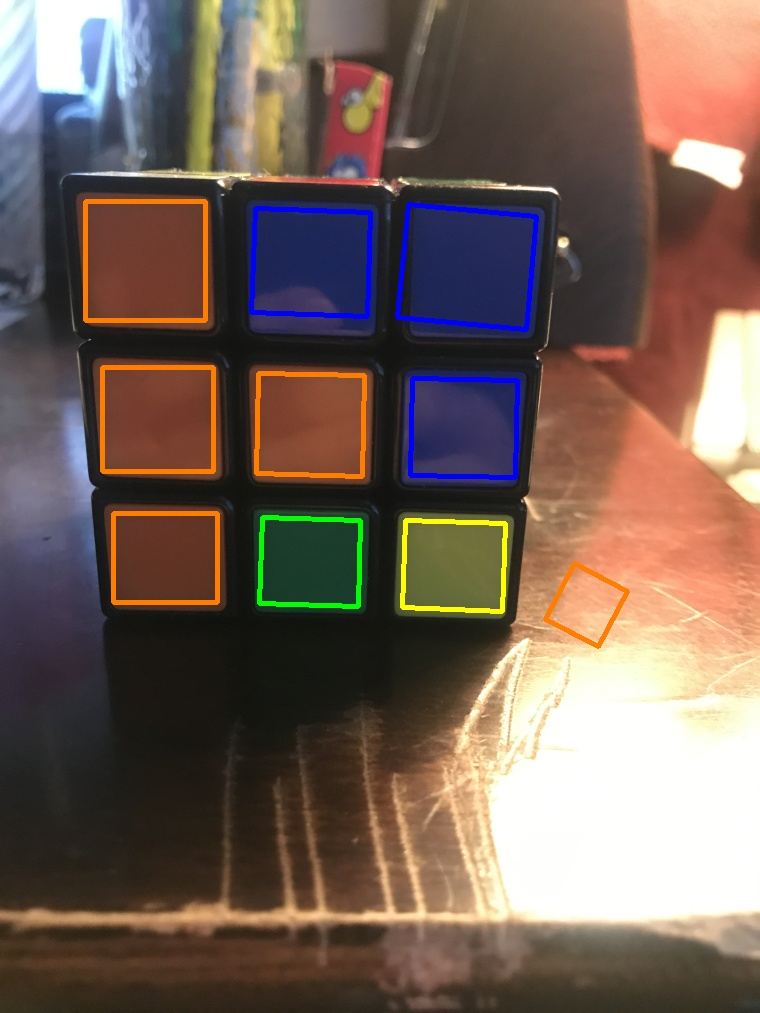
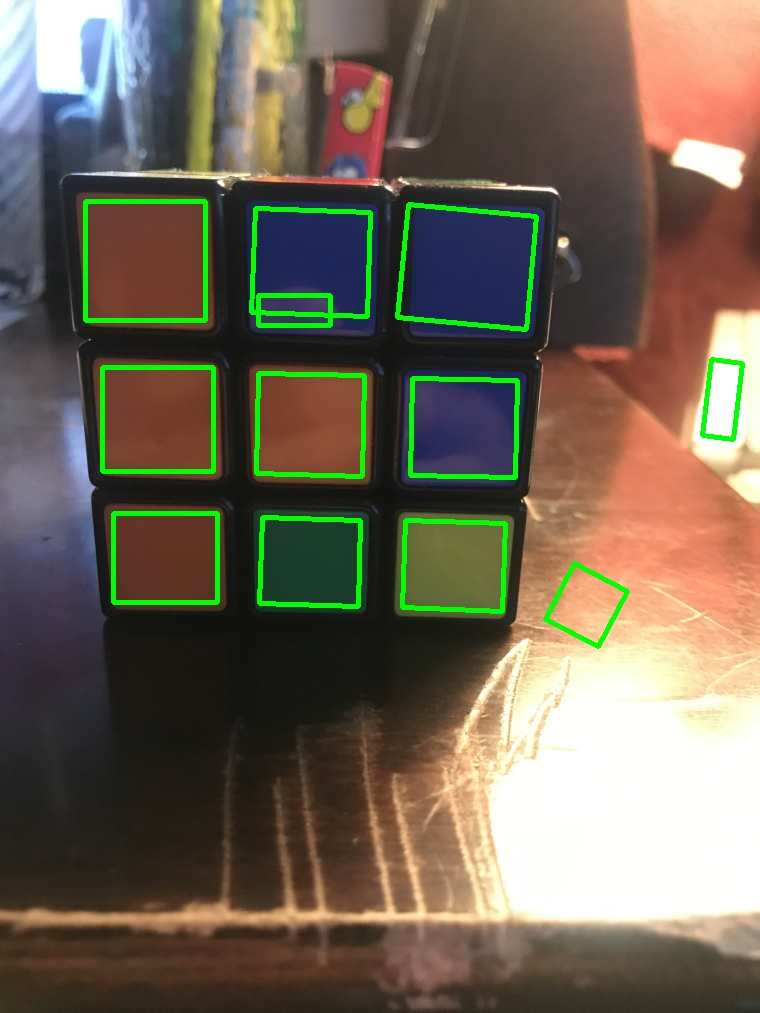
idek

diff --git a/preprocess_images_to_train.py b/preprocess_images_to_train.py
@@ -7,10 +7,10 @@ import keras
 
 EXECUTION_DIRECTORY = os.getcwd()
 
-IMAGE_DIRECTORY_NAME = "simple_rubiks"
+IMAGE_DIRECTORY_NAME = "rubiks very simple"
 IMAGE_DIRECTORY = os.path.join(EXECUTION_DIRECTORY,IMAGE_DIRECTORY_NAME)
 
-NUM_IMAGES = 5
+NUM_IMAGES = 6
 
 CONFIDENCE_THRESHOLD = 0.0
 
@@ -50,6 +50,21 @@ def predict_using_ratios(mean):
     confidence = predicted[0][max_ind]
     return color_label, color, confidence
 
+# helper function to gather all sets of 3 points in the process of determining collinearity
+def combinations(inlist):
+    sets = []
+    for i in range(len(inlist)-2):
+        for j in range(i+1,len(inlist)-1):
+            set = (inlist[i],inlist[j],inlist[j+1])
+            sets.append(set)
+    return sets
+# determined if a set of 3 points are collinear or not
+SLOPE_THRESHOLD = 0.1
+def is_collinear(set):
+    slope1 = (set[0][1] - set[1][1])/(set[0][0] - set[1][0])
+    slope2 = (set[0][1] - set[2][1])/(set[0][0] - set[2][0])
+    return abs(slope1 - slope2) < SLOPE_THRESHOLD
+
 # load color classification model
 color_model = keras.models.load_model(os.path.join(EXECUTION_DIRECTORY,"colorclassification.h5"))
 color_ratio_model = keras.models.load_model(os.path.join(EXECUTION_DIRECTORY,"colorratioclassification.h5"))
@@ -73,6 +88,7 @@ for i in range(NUM_IMAGES):
     
     yuv_image[:,:,0] = cv2.equalizeHist(yuv_image[:,:,0])
     yuvrgb_image = cv2.cvtColor(yuv_image,cv2.COLOR_YUV2BGR)
+    yuvrgb_image = image.copy()
 
     cv2.imwrite(os.path.join(IMAGE_DIRECTORY,"sample_images/"+str(i)+"1yuv.jpg"),yuvrgb_image)
 
@@ -97,9 +113,17 @@ for i in range(NUM_IMAGES):
     cv2.imwrite(os.path.join(IMAGE_DIRECTORY,"sample_images/"+str(i)+"4contours.jpg"),contour_image)
 
     no_area = image.copy()
+    no_area_blank = image.copy()
+    no_area_blank[:,:] = [255,255,255]
     not_square = image.copy()
     not_color = image.copy()
     all_boxes = image.copy()
+    good_contours = []
+    areas = []
+    aspect_ratios = []
+    ax = 0
+    ay = 0
+    centers = []
     for cnt in contours:
         rect = cv2.minAreaRect(cnt)
         box = cv2.boxPoints(rect)
@@ -107,17 +131,27 @@ for i in range(NUM_IMAGES):
         p1 = box[0]
         p2 = box[1]
         p3 = box[2]
+        p4 = box[3]
+        cx = (p1[0] + p2[0] + p3[0] + p4[0])/4.0
+        cy = (p1[1] + p2[1] + p3[1] + p4[1])/4.0
+        ax += cx
+        ay += cy
         dx1 = p2[0]-p1[0]
         dy1 = p2[1]-p1[1]
         dx2 = p3[0]-p2[0]
         dy2 = p3[1]-p2[1]
-        s1 = dx1 ** 2 + dy1 ** 2
-        s2 = dx2 ** 2 + dy2 ** 2
+        s1 = math.sqrt(dx1 ** 2 + dy1 ** 2)
+        s2 = math.sqrt(dx2 ** 2 + dy2 ** 2)
+        rect_area = s1 * s2
         ratio = math.sqrt(s1/s2)
         cv2.drawContours(all_boxes,[box],0,(0,255,0),3)
-        if cv2.contourArea(cnt) > 1250 and cv2.contourArea(cnt) < 20000:
+        if cv2.contourArea(cnt) > 1250 and cv2.contourArea(cnt) < 25000:
             cv2.drawContours(no_area,[box],0,(0,255,0),3)
-            if abs(ratio - 1) < 0.3:
+            center = (int(cx),int(cy))
+            centers.append(center)
+            # cv2.drawContours(no_area_blank,[box],0,(0,255,0),3)
+            cv2.circle(no_area_blank, center, 3, (255,0,0), 3)
+            if abs(ratio - 1) < 1000.3:
                 cv2.drawContours(not_square,[box],0,(0,255,0), 3)
                 mask = np.zeros(image_gray.shape,np.uint8)
                 cv2.drawContours(mask, [cnt], 0, 255, -1)
@@ -126,85 +160,85 @@ for i in range(NUM_IMAGES):
                 ratio_color_label, ratio_color, ratio_confidence = predict_using_ratios(mean_val)
                 print("RAW", raw_color_label, raw_confidence, "RATIO", ratio_color_label, ratio_confidence)
                 if ratio_confidence > CONFIDENCE_THRESHOLD:
-                    cv2.drawContours(not_color, [box], 0, ratio_color, 3)
+                    cv2.drawContours(not_color, [box], 0, (0,255,0), 3)
+                    good_contours.append(cnt)
+                    # areas.append(rect_area)
+                    areas.append(cv2.contourArea(cnt))
+                    aspect_ratios.append(ratio)
+    ax /= len(contours)
+    ay /= len(contours)
+    cv2.circle(no_area_blank, (int(ax), int(ay)), 5, (0,0,255), 5)
+    distances = []
+    for center in centers:
+        distance = 0
+        for center2 in centers:
+            if center is center2:
+                continue
+            cv2.line(no_area_blank, center, center2, (0,255,0), 2)
+            dx = center[0] - center2[0]
+            dy = center[1] - center2[1]
+            distance += dx ** 2 + dy ** 2
+        distances.append((distance,center))
+    distances = sorted(distances, key=lambda a: a[0])
+    for j in range(min(9,len(distances))):
+        c = distances[j][1]
+        cv2.circle(no_area_blank, c, 5, (255,0,255), 5)
+    
+    
+    # mode_setting = (areas, 2500)
+    # mode_setting = (aspect_ratios, 0.05)
+    # # calculate the floating point mode of the areas
+    # epsilon = mode_setting[1] # the range of values accepted within a mode count
+    # mode_list = mode_setting[0]
+    # counts = []
+    # for a in mode_list:
+    #     for j, (b, c) in enumerate(counts):
+    #         if -epsilon <= a - b <= epsilon:
+    #             counts[j] = (b, c + 1)
+    #             break
+    #     else:
+    #         counts.append((a,1))
+    # possible_modes = sorted(counts,key=lambda ab: (ab[1],ab[0]))
+    # possible_modes.reverse()
+    # print(possible_modes)
+    # # for possible_mode in possible_modes:
+    # mode = -1
+    # if len(possible_modes) > 0:
+    #     mode = possible_modes[0][0]
+
+    # mode_image = image.copy()
+    # mode_contours = []
+    # for j, cnt in enumerate(good_contours):
+    #     if abs(mode_list[j] - mode) <= epsilon:
+    #         mode_contours.append(cnt)
+    #         rect = cv2.minAreaRect(cnt)
+    #         box = cv2.boxPoints(rect)
+    #         box = np.int0(box)  
+    #         cv2.drawContours(mode_image, [box], 0, (0,255,0),3)
+
+    # sets = combinations(good_contours)
+    # collinear_contours = []
+    # for set in sets:
+    #     points = []
+    #     for cnt in set:
+    #         (x,y), radius = cv2.minEnclosingCircle(cnt)
+    #         points.append((x,y))
+    #     if is_collinear(points):
+    #         for cnt in set:
+    #             # if cnt not in collinear_contours:
+    #             collinear_contours.append(cnt)
+    # 
+    # for cnt in collinear_contours:
+    #     (x,y), radius = cv2.minEnclosingCircle(cnt)
+    #     center = (x, y)
+    #     cv2.circle(not_color, (int(x),int(y)), 1, (255,0,0), 5)
 
     cv2.imwrite(os.path.join(IMAGE_DIRECTORY,"sample_images/"+str(i)+"5contoursquares.jpg"),all_boxes)
     cv2.imwrite(os.path.join(IMAGE_DIRECTORY,"sample_images/"+str(i)+"6contoursquaresnoarea.jpg"),no_area)
-    cv2.imwrite(os.path.join(IMAGE_DIRECTORY,"sample_images/"+str(i)+"7contoursquaresnosquare.jpg"),not_square)
-    cv2.imwrite(os.path.join(IMAGE_DIRECTORY,"sample_images/"+str(i)+"8contoursquaresnocolor.jpg"),not_color)
-
-    """
-    areas = []
-    possible_contours = []
-    for cnt in contours:
-        rect = cv2.minAreaRect(cnt)
-        box = cv2.boxPoints(rect)
-        box = np.int0(box)
-
-        rectangles = image.copy()
-        cv2.drawContours(rectangles,[box],0,(0,255,0),3)
-        cv2.imwrite(os.path.join(IMAGE_DIRECTORY,"sample_images/"+str(i)+"5contoursquares.jpg"),rectangles)
-
-        # box is a 2D array of points. 
-        # what we can do is find the dimensions of the box given these points
-        # only need to get the first two sides
-        p1 = box[0]
-        p2 = box[1]
-        p3 = box[2]
-        dx1 = p2[0]-p1[0]
-        dy1 = p2[1]-p1[1]
-        dx2 = p3[0]-p2[0]
-        dy2 = p3[1]-p2[1]
-        s1 = dx1 ** 2 + dy1 ** 2
-        s2 = dx2 ** 2 + dy2 ** 2
-        
-        ratio = math.sqrt(s1/s2)
-        rect_area = s1 * s2
-        actual_area = cv2.contourArea(cnt)
-
-        if actual_area < 1000 or rect_area/actual_area > 2 or abs(ratio - 1) > 1:
-            continue
-        else:
-            areas.append(cv2.contourArea(cnt))
-            possible_contours.append(cnt)
-    epsilon = 750
-    counts = []
-    for a in areas:
-        for j, (b, c) in enumerate(counts):
-            if -epsilon <= a - b <= epsilon:
-                counts[j] = (b, c + 1)
-                break
-        else:
-            counts.append((a,1))
-    possible_modes = sorted(counts,key=lambda ab: (ab[1],ab[0]))
-    possible_modes.reverse()
-    print(possible_modes)
-    # for possible_mode in possible_modes:
-    mode = -1
-    if len(possible_modes) > 0:
-        mode = possible_modes[0][0]
-
-    # cv2.drawContours(image, contours, -1, (0,255,255), 3)
-    for cnt in possible_contours:
-        (x,y),radius = cv2.minEnclosingCircle(cnt)
-        center = (int(x),int(y))
-        actual_area = cv2.contourArea(cnt)
-        if mode < 0 or -epsilon <= actual_area - mode <= epsilon:
-            mask = np.zeros(image_gray.shape,np.uint8)
-            cv2.drawContours(mask, [cnt], 0, 255, -1)
-            mean_val = cv2.mean(image,mask=mask)
-            predicted = color_model.predict([[mean_val[0],mean_val[1],mean_val[2]]]).tolist()
-            max_ind = max_index(predicted[0])
-            color_label = color_labels[max_ind]
-            color = color_values[max_ind]
-            if not has_confidence(predicted[0]):
-                color = (0,0,0)
-            rect = cv2.minAreaRect(cnt)
-            box = cv2.boxPoints(rect)
-            box = np.int0(box)
-            cv2.drawContours(image,[box],0,color,2)
-            cv2.circle(image,center,3,(0,0,0),5)
-    """
+    cv2.imwrite(os.path.join(IMAGE_DIRECTORY,"sample_images/"+str(i)+"6contoursquaresnoareablank.jpg"),no_area_blank)
+    # cv2.imwrite(os.path.join(IMAGE_DIRECTORY,"sample_images/"+str(i)+"7contoursquaresnosquare.jpg"),not_square)
+    # cv2.imwrite(os.path.join(IMAGE_DIRECTORY,"sample_images/"+str(i)+"8contoursquaresnocolor.jpg"),not_color)
+    # cv2.imwrite(os.path.join(IMAGE_DIRECTORY,"sample_images/"+str(i)+"9contoursquaresmode.jpg"),mode_image)
 
     out = image
 
